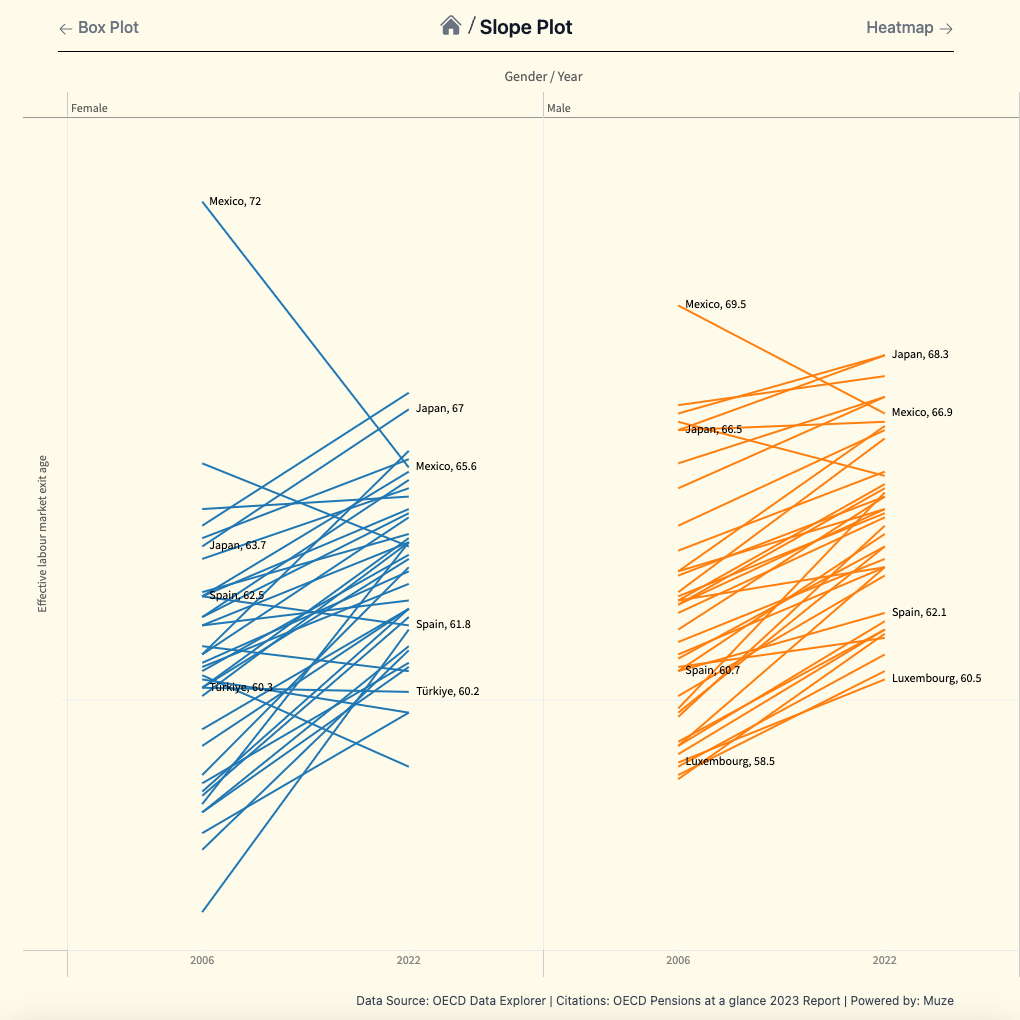
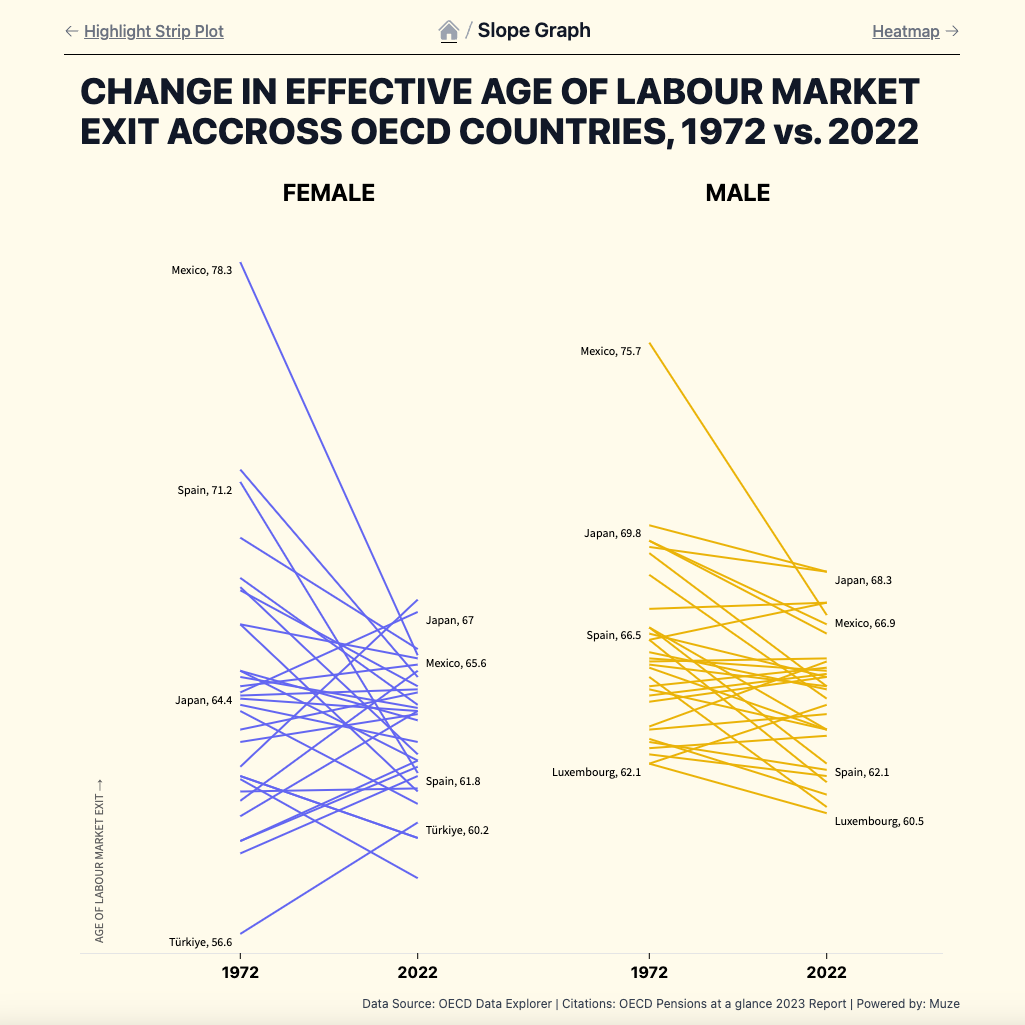
Pixel perfect slope graph

diff --git a/src/lib/slopeplot.svelte b/src/lib/slopeplot.svelte
@@ -14,13 +14,20 @@
 	} = $props();
 
 	const DataModel = $derived(muze.DataModel);
+	const html = $derived(muze.Operators.html);
 	const loadedData = $derived(DataModel.loadDataSync(data, schema));
 	const dm = $derived(
 		new DataModel(loadedData).select({
-			operator: 'or',
+			operator: 'and',
 			conditions: [
-				{ field: 'Year', value: '01-01-2006', operator: 'eq' },
-				{ field: 'Year', value: '01-01-2022', operator: 'eq' }
+				{
+					operator: 'or',
+					conditions: [
+						{ field: 'Year', value: '01-01-1972', operator: 'eq' },
+						{ field: 'Year', value: '01-01-2022', operator: 'eq' }
+					]
+				},
+				{ field: 'Country', value: 'OECD average', operator: 'neq' }
 			]
 		})
 	);
@@ -37,41 +44,54 @@
 			.layers([
 				{
 					mark: 'line',
+					highlightExactPoint: true,
+					crossline: false,
+					nearestPointThreshold: 150
+				},
+				{
+					mark: 'text',
+					interactive: false,
 					encoding: {
+						color: { value: () => '#000000' },
 						text: {
 							field: 'Country',
 							formatter: (
 								{ formattedValue }: { formattedValue: string },
-								{ dataPoint: { dataObj } }: { dataPoint: { dataObj: Record<string, number> } }
-							) => `${formattedValue}, ${dataObj['Effective labour market exit age']}`,
-							labelPlacement: {
-								anchors: ['outside-left', 'outside-right']
-							},
-							filter: ({
-								rowData: { Country, Gender }
-							}: {
-								rowData: { Country: string; Gender: string };
-							}) => {
-								if (Gender === 'Female') {
+								{
+									dataPoint: { dataObj }
+								}: {
+									dataPoint: {
+										dataObj: {
+											Gender: 'Male' | 'Female';
+											Country: string;
+											'Effective labour market exit age': number;
+										};
+									};
+								}
+							) => {
+								const gender = dataObj.Gender;
+								const country = dataObj.Country;
+
+								if (gender === 'Female') {
 									if (
-										Country === 'Mexico' ||
-										Country === 'Japan' ||
-										Country === 'Spain' ||
-										Country === 'Türkiye'
+										country === 'Mexico' ||
+										country === 'Japan' ||
+										country === 'Spain' ||
+										country === 'Türkiye'
 									) {
-										return true;
+										return `${formattedValue}, ${dataObj['Effective labour market exit age']}`;
 									}
 								} else {
 									if (
-										Country === 'Mexico' ||
-										Country === 'Japan' ||
-										Country === 'Spain' ||
-										Country === 'Luxembourg'
+										country === 'Mexico' ||
+										country === 'Japan' ||
+										country === 'Spain' ||
+										country === 'Luxembourg'
 									) {
-										return true;
+										return `${formattedValue}, ${dataObj['Effective labour market exit age']}`;
 									}
 								}
-								return false;
+								return '';
 							}
 						}
 					}
@@ -79,18 +99,84 @@
 			])
 			.color('Gender')
 			.config({
-				legend: { show: false },
+				legend: { show: false, color: { domainRangeMap: { Female: '#6366f1', Male: '#eab308' } } },
+				columns: { headers: { show: false } },
 				axes: {
 					x: {
+						showAxisName: false,
+						showAxisLine: true,
+						// showInnerTicks: true,
 						tickFormat: ({ formattedValue }: { formattedValue: string }) =>
 							formattedValue.slice(-4, formattedValue.length)
 					},
 					y: {
-						tickFormat: () => ''
+						tickFormat: () => '',
+						name: 'AGE OF LABOUR MARKET EXIT →'
+					}
+				},
+				interaction: {
+					tooltip: {
+						includeDataFromAllLayers: true,
+						formatter: ({ dataModel }, { context }) => {
+							const Country = dataModel.getField('Country').data().at(0);
+							const Gender = dataModel.getField('Gender').data().at(0);
+							// const 'Effective labour market exit age' = dataModel.getField('Effective labour market exit age');
+							const selectedDM = context.targetLayer.data().select({
+								operator: 'and',
+								conditions: [
+									{ field: 'Country', value: Country, operator: 'eq' },
+									{ field: 'Gender', value: Gender, operator: 'eq' }
+								]
+							});
+							const exitAge1972 = selectedDM
+								.select({ field: 'Year Int', value: 1972, operator: 'eq' })
+								.getField('Effective labour market exit age')
+								.data()
+								.at(0);
+							const exitAge2022 = selectedDM
+								.select({ field: 'Year Int', value: 2022, operator: 'eq' })
+								.getField('Effective labour market exit age')
+								.data()
+								.at(0);
+
+							return html`<div
+								class="flex flex-col gap-2 py-1 pb-2 pt-1 font-sans text-xs text-black"
+							>
+								<div>
+									<p class="font-bold">${Country}</p>
+									<p class="uppercase">${Gender}</p>
+								</div>
+								<div>
+									<p>1972: <span class="font-bold">${exitAge1972}</span> years</p>
+									<p>2022: <span class="font-bold">${exitAge2022}</span> years</p>
+								</div>
+							</div>`;
+						}
 					}
 				}
 			})
 			.detail(['Country']);
+	});
+
+	$effect(() => {
+		canvas.on('afterRendered', () => {
+			document.querySelectorAll('g.muze-layer-text text').forEach((el) => {
+				el.setAttribute('text-anchor', el.__data__.data['Year Int'] === 1972 ? 'end' : 'start');
+				el.setAttribute('alignment-baseline', 'text-before-edge');
+				el.setAttribute('dx', el.__data__.data['Year Int'] === 1972 ? '-8px' : '8px');
+			});
+
+			document.querySelectorAll('text.muze-ticks tspan').forEach((el) => {
+				el.setAttribute('dy', '25px');
+			});
+
+			document.querySelectorAll('text.muze-axis-name').forEach((el) => {
+				if (el instanceof SVGTextElement) {
+					const axisLength = el.ownerSVGElement?.getBoundingClientRect().height ?? 0;
+					el.setAttribute('transform', `translate(-21.2,${axisLength - 10})rotate(-90)`);
+				}
+			});
+		});
 	});
 
 	$effect(() => {
@@ -103,4 +189,47 @@
 	});
 </script>
 
-<div class="slopeplot size-full" bind:this={viz}></div>
+<div class="not-prose slopeplot grow" bind:this={viz}></div>
+
+<style lang="postcss">
+	div.slopeplot :global(.muze-grid-center td.muze-grid-td) {
+		border-top-color: transparent !important;
+		border-right-color: transparent !important;
+		border-left-color: transparent !important;
+		@apply !border-b-neutral-200;
+	}
+
+	div.slopeplot :global(.muze-grid-top td.muze-grid-td) {
+		border-color: transparent !important;
+	}
+
+	div.slopeplot :global(.muze-grid-bottom td.muze-grid-td) {
+		border-color: transparent !important;
+	}
+
+	div.slopeplot :global(.muze-ticks line) {
+		stroke: #000000 !important;
+	}
+
+	div.slopeplot :global(div.muze-text-cell) {
+		@apply !text-2xl;
+		@apply !font-bold;
+		@apply !text-black;
+		@apply !uppercase;
+		@apply !justify-center;
+		@apply !font-sans;
+	}
+
+	div.slopeplot :global(text.muze-ticks) {
+		@apply !text-base;
+		@apply !font-sans;
+		@apply !font-bold;
+		@apply !fill-black;
+		@apply !uppercase;
+	}
+
+	div.slopeplot :global(text.muze-axis-name) {
+		text-anchor: start !important;
+		@apply !text-black;
+	}
+</style>

diff --git a/src/routes/+layout.svelte b/src/routes/+layout.svelte
@@ -14,10 +14,10 @@
 		content="Discover the versatility of Muze with 19 different visualizations answering questions about labour market exits in OECD countries."
 	/>
 	<meta property="og:type" content="website" />
-	<meta property="og:logo" content={`${$page.url.origin}/images/og-home.jpeg`} />
+	<meta property="og:logo" content={`${$page.url.origin}/images/og-home.png`} />
 	<meta property="og:url" content={$page.url.toString()} />
 	<meta property="twitter:card" content="summary_large_image" />
-	<meta property="og:image" content={`${$page.url.origin}/images/og-home.jpeg`} />
+	<meta property="og:image" content={`${$page.url.origin}/images/og-home.png`} />
 	<meta property="og:site_name" content="One Dataset, Nineteen Muze Visualizations" />
 	<meta property="og:title" content="One Dataset, Nineteen Muze Visualizations" />
 	<meta

diff --git a/src/routes/+page.svelte b/src/routes/+page.svelte
@@ -10,8 +10,8 @@
 		eager: true,
 		query: {
 			enhanced: true,
-			w: 144,
-			h: 144
+			w: 160,
+			h: 160
 		}
 	});
 
@@ -83,7 +83,7 @@
 					<a class="inline-block" href={`/viz/${name}`}>
 						<enhanced:img
 							{alt}
-							class="m-0 size-36 rounded border-2 border-gray-200 transition-opacity hover:opacity-80 hover:brightness-105"
+							class="m-0 size-40 rounded border-2 border-gray-200 transition-opacity hover:opacity-80 hover:brightness-105"
 							src={imageModules[`../images/${name}.png`].default}
 						></enhanced:img>
 					</a>

diff --git a/src/routes/viz/slopeplot/+page.svelte b/src/routes/viz/slopeplot/+page.svelte
@@ -8,7 +8,8 @@
 	const data = $derived(pageData.data);
 </script>
 
-<main class="h-screen w-screen p-4">
+<main class="prose m-auto flex size-full max-w-4xl flex-col p-4">
+	<h1>CHANGE IN EFFECTIVE AGE OF LABOUR MARKET EXIT ACCROSS OECD COUNTRIES, 1972 vs. 2022</h1>
 	{#await import('@viz/muze') then { default: muze }}
 		<Slopeplot {muze} {schema} {data}></Slopeplot>
 	{/await}

diff --git a/src/routes/viz/slopeplot/+page.ts b/src/routes/viz/slopeplot/+page.ts
@@ -5,9 +5,7 @@ const load: PageLoad = async ({ fetch }) => {
 		res.json()
 	);
 
-	const data = await fetch('/retirement_OECD/retirement_OECD_Extract.json').then((res) =>
-		res.json()
-	);
+	const data = await fetch('/retirement_OECD/slopeplot.json').then((res) => res.json());
 
 	return { schema, data };
 };

diff --git a/src/routes/+layout.ts b/src/routes/+layout.ts
@@ -27,11 +27,11 @@ const pageInfos = [
 	},
 	{
 		name: 'stripplot',
-		alt: 'Strip Plot'
+		alt: 'Highlight Strip Plot'
 	},
 	{
 		name: 'slopeplot',
-		alt: 'Slope Plot'
+		alt: 'Slope Graph'
 	},
 	{
 		name: 'heatmap',
